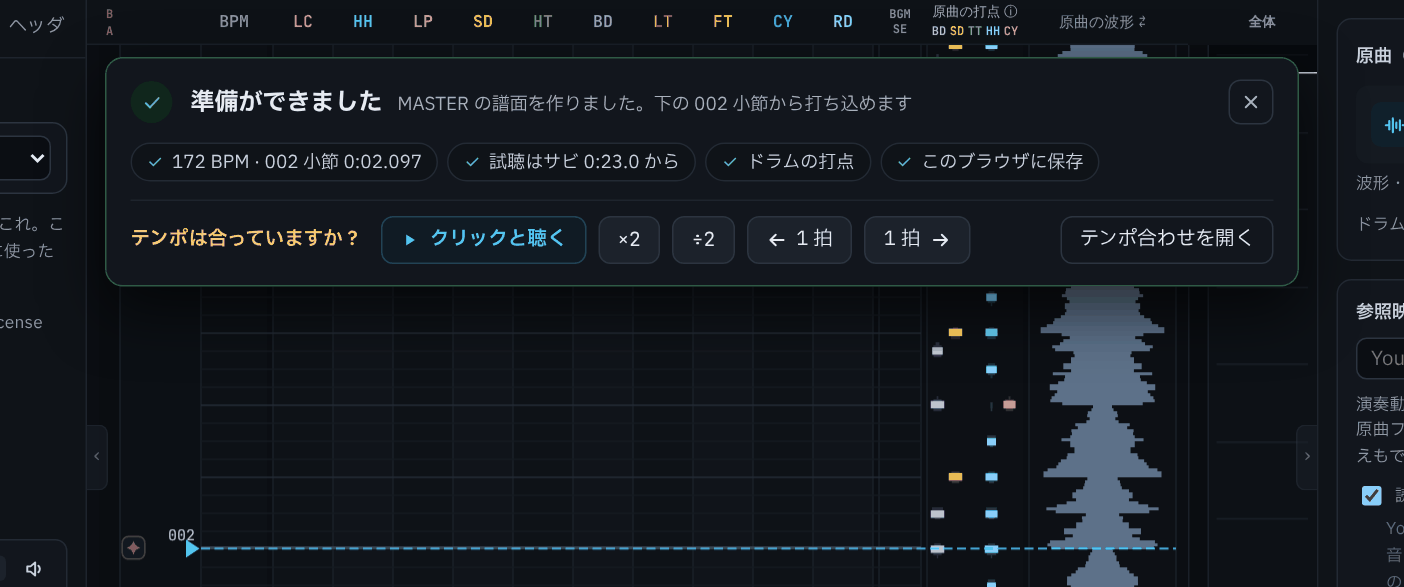
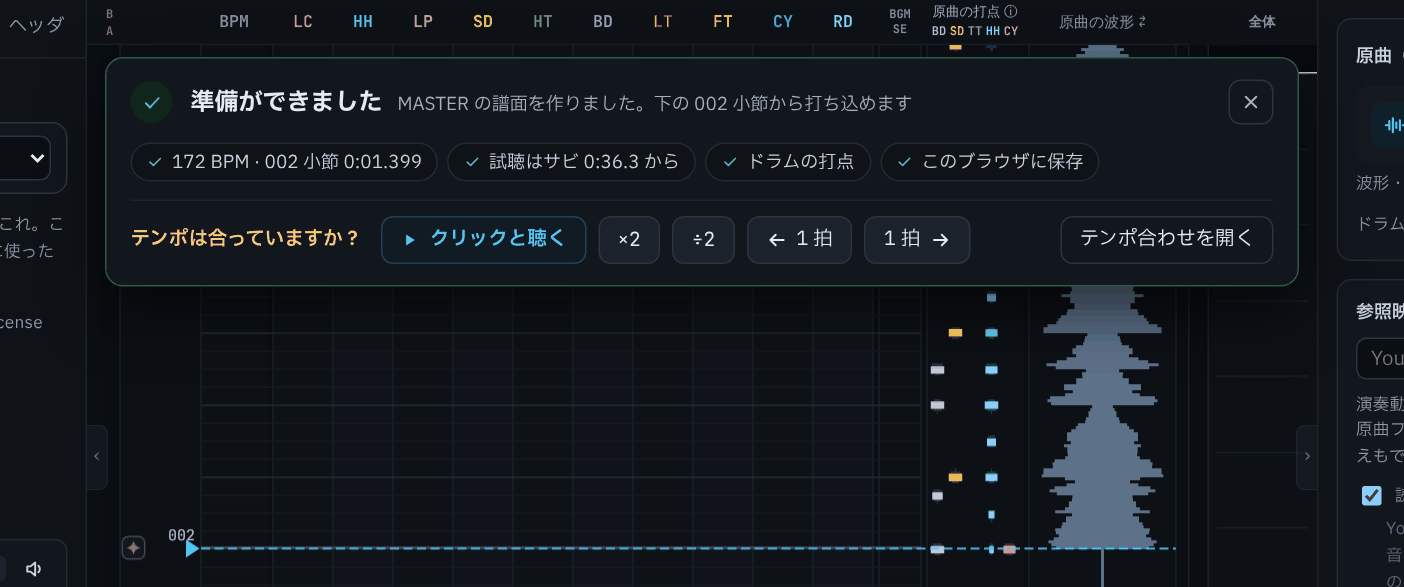
v0.54.1: テンポ推定の 1 小節目の頭が 2 拍ずれるのを直す（和音とベースを 1 小節ずつ比べる・おまかせで準備が和音の確かめを待つ）
- README のデモ曲 Neon Skyline で、おまかせで準備の 1 小節目の頭が 2 拍あと（2.097 秒）になっていた。正しくは 1.395 秒（直して 1.399 秒）
- 原因 1（src/audio/grid.ts）: 1 拍目と 3 拍目はドラムの形ではほぼ同点（7 曲とも差は 3% 以下）で、和音の変わり目で決めていた。和音を前後 2 拍ずつ比べていたので、小節の途中で変わるメロディーに引っぱられ、デモ曲では 3 拍目のほうが変わって見えた（テスト曲も 2 曲は僅差で当たっていた）
- 直し方: 前の 1 小節と後の 1 小節を比べる（本当の 1 拍目なら前後の窓がちょうど 1 小節ずつになり、違いがいちばん大きい）。低い音（40〜200Hz）のクロマ（ベース）の違いも足す（features.ts にベースのクロマ）。1 拍目と次点の差は、テスト曲 6 曲で 0.01〜2.1（デモ曲は外れ）→ デモ曲を入れた 7 曲で 1.7〜2.1。ドラムとドラム抜きに分けた音で測っても同じ
- 原因 2（src/store/tempoUi.ts）: おまかせで準備は和音の確かめを待ってから反映するつもりが、テンポ合わせを始めたときに測り始めた分と重なって null がすぐ返り、ドラムの形だけの案を反映していた。測っている最中にもう一度呼ばれたら、同じ答えを待つ
- テストを足した（メロディーが小節の途中で変わる合成の曲・ベースのクロマ・和音の確かめを待つ）。説明書の書き方を直した
- README の写真（setup-ready.png）を撮り直した

Claude-Session: https://claude.ai/code/session_0141xt8741xgwdn8D5bEfk2K

diff --git a/src/audio/grid.test.ts b/src/audio/grid.test.ts
@@ -1,6 +1,6 @@
 import { describe, expect, it } from 'vitest';
 import { analyzeAudio } from './analysis';
-import { computeFrameFeatures } from './features';
+import { computeFrameFeatures, type FrameFeatures } from './features';
 import { chordChange, firstDownbeat, guessBars, pickDownbeat } from './grid';
 import { eightBeat, synth, type SynthHit } from './testSignal';
 
@@ -43,6 +43,39 @@ function addChords(x: Float32Array, sr: number, bpm: number, bars: number, lead:
         const env = Math.min(1, i / 200, (n - i) / 200);
         x[a + i] += 0.08 * env * Math.sin((2 * Math.PI * f * i) / sr);
       }
+    }
+  }
+}
+
+/** 1 小節ごとに変わるベース（C・F・G・A。和音の根音） */
+function addBass(x: Float32Array, sr: number, bpm: number, bars: number, lead: number) {
+  const bar = 240 / bpm;
+  const roots = [65.41, 87.31, 98.0, 110.0];
+  for (let b = 0; b < bars; b++) {
+    const a = Math.round((lead + b * bar) * sr);
+    const n = Math.round(bar * sr);
+    const f = roots[b % 4];
+    for (let i = 0; i < n && a + i < x.length; i++) {
+      const env = Math.min(1, i / 200, (n - i) / 200);
+      x[a + i] += 0.2 * env * (Math.sin((2 * Math.PI * f * i) / sr) + 0.5 * Math.sin((4 * Math.PI * f * i) / sr));
+    }
+  }
+}
+
+/**
+ * 大きなメロディー。音は小節の途中（3 拍目）でだけ変わり、小節の頭ではそのまま続く
+ * （前の 2 拍と後の 2 拍を比べると、3 拍目のほうが変わって見える）
+ */
+function addMelody(x: Float32Array, sr: number, bpm: number, bars: number, lead: number) {
+  const half = 120 / bpm;
+  const notes = [659.25, 783.99, 880.0, 587.33, 523.25, 698.46, 987.77];
+  for (let h = 0; h < bars * 2; h++) {
+    const a = Math.round((lead + h * half) * sr);
+    const n = Math.round(half * sr);
+    const f = notes[Math.floor((h + 1) / 2) % notes.length];
+    for (let i = 0; i < n && a + i < x.length; i++) {
+      const env = Math.min(1, i / 200, (n - i) / 200);
+      x[a + i] += 0.25 * env * Math.sin((2 * Math.PI * f * i) / sr);
     }
   }
 }
@@ -100,6 +133,23 @@ describe('拍の位置と 1 小節目の頭', () => {
     const k = pickDownbeat(g.fit, chords);
     expect(offBy(firstDownbeat(g, data.start, k), lead, 2)).toBeLessThan(0.015);
   });
+
+  it('メロディーが小節の途中で変わっても、和音とベースが変わる小節の頭を 1 拍目にする', () => {
+    // README のデモ曲では、和音を 2 拍ずつ比べるとメロディーに引っぱられて 3 拍目を 1 拍目にしていた
+    const bpm = 120;
+    const lead = 0.5;
+    const bars = 14;
+    const x = synth(rock(bpm, bars, lead, true), SR, 30);
+    addChords(x, SR, bpm, bars, lead);
+    addBass(x, SR, bpm, bars, lead);
+    addMelody(x, SR, bpm, bars, lead);
+    const data = analyzeAudio([x], SR);
+    const g = data.bars[0];
+    expect(g.bpm).toBeCloseTo(bpm, 0);
+    const chords = chordChange(computeFrameFeatures([x], SR), g.bpm, g.beat, data.start, data.duration);
+    const k = pickDownbeat(g.fit, chords);
+    expect(offBy(firstDownbeat(g, data.start, k), lead, 2)).toBeLessThan(0.015);
+  });
 });
 
 describe('1 拍目の選び方', () => {
@@ -127,5 +177,50 @@ describe('1 拍目の選び方', () => {
     }
     const chg = chordChange({ rate, frames, offset: 0, chroma }, 120, 0.2, 0, 30);
     expect(chg.indexOf(Math.max(...chg))).toBe(1);
+  });
+
+  it('ベースの音（低い音のクロマ）も足す。ベースだけが小節の頭で変わっても見つける', () => {
+    const rate = 10;
+    const frames = 300;
+    // 和音（上のクロマ）は 2 拍ごとに 2 つを行き来する（小節の頭では見分けられない）
+    const chroma = new Float32Array(frames * 12);
+    const bass = new Float32Array(frames * 12);
+    for (let f = 0; f < frames; f++) {
+      const t = f / rate;
+      const half = Math.floor((t - 0.7) / 1);
+      chroma[f * 12 + (((half % 2) + 2) % 2) * 7] = 1;
+      const bar = Math.floor((t - 0.7) / 2);
+      bass[f * 12 + (((bar % 3) + 3) % 3) * 5] = 1;
+    }
+    const without = chordChange({ rate, frames, offset: 0, chroma }, 120, 0.2, 0, 30);
+    expect(Math.max(...without) - Math.min(...without)).toBeLessThan(0.01);
+    const chg = chordChange({ rate, frames, offset: 0, chroma, bass }, 120, 0.2, 0, 30);
+    expect(chg.indexOf(Math.max(...chg))).toBe(1);
+  });
+});
+
+describe('ベースのクロマ', () => {
+  it('低い音（40〜200Hz）だけを音名に分ける', () => {
+    const sr = 22050;
+    const tone = (hz: number[]) => {
+      const x = new Float32Array(sr * 3);
+      for (let i = 0; i < x.length; i++) for (const f of hz) x[i] += 0.3 * Math.sin((2 * Math.PI * f * i) / sr);
+      return computeFrameFeatures([x], sr);
+    };
+    const sum = (f: FrameFeatures, a: Float32Array) => {
+      const s = new Array(12).fill(0);
+      for (let k = 0; k < f.frames; k++) for (let c = 0; c < 12; c++) s[c] += a[k * 12 + c];
+      return s;
+    };
+    // G2（98Hz）のベースだけと、A5（880Hz）のメロディーを足したもの
+    const bass = tone([98]);
+    const both = tone([98, 880]);
+    const b = sum(bass, bass.bass);
+    expect(b.indexOf(Math.max(...b))).toBe(7);
+    // メロディーは低い音のクロマに入らない（ふつうのクロマには入る）
+    const b2 = sum(both, both.bass);
+    for (let c = 0; c < 12; c++) expect(Math.abs(b2[c] - b[c])).toBeLessThan(b[7] * 0.01);
+    const c2 = sum(both, both.chroma);
+    expect(c2.indexOf(Math.max(...c2))).toBe(9);
   });
 });

diff --git a/src/audio/grid.ts b/src/audio/grid.ts
@@ -1,8 +1,10 @@
 // 曲全体の拍と小節の頭を推定する：BPM の倍・半分のどれか、拍の位置、どの拍が 1 拍目か。
 // 打点の強さ（低・中・高の帯域）を曲全体で小節の長さにたたみ、よくあるドラムの形
 // （キックが 1・3 拍目、スネアが 2・4 拍目、1 拍目にシンバル）にいちばん合う所を探す。
-// 形だけだと 1 拍目と 3 拍目の違いが小さいので、和音（クロマ）があれば和音の変わり目も手がかりにする。
-// テスト曲 6 曲で BPM・1 小節目の頭とも 6 曲が作者の譜面と合った（前の推定は BPM 5 曲・頭 3/5 曲）。
+// 形だけだと 1 拍目と 3 拍目はほとんど差が出ないので、和音（クロマ）とベースの音があれば、
+// それが変わる所（前の 1 小節と後の 1 小節がいちばん違う拍）も手がかりにする。
+// テスト曲 6 曲と README のデモ曲で BPM・1 小節目の頭とも作者の譜面と合う（前の推定は BPM 5 曲・頭 3/5 曲。
+// 和音を 2 拍ずつ比べていた v0.53.0 はデモ曲で頭を 3 拍目にし、テスト曲 2 曲も僅差だった）。
 import type { Band } from './analysis';
 import type { FrameFeatures } from './features';
 
@@ -171,34 +173,53 @@ export function firstDownbeat(g: Pick<BarGuess, 'bpm' | 'beat' | 'k'>, from: num
   return t;
 }
 
+/** 和音の変わり目を比べる長さ（拍）。和音もベースの音も小節の頭で変わりやすいので、1 小節ずつ比べる */
+export const CHORD_SPAN = 4;
+
 /**
- * 和音の変わり目：拍の位置から k 拍目（k = 0〜3。4 拍ごと）の拍で、前の 2 拍と後の 2 拍の和音（クロマ）が
- * どれだけ違うかを、from〜to 秒の間で足したもの。和音は小節の頭で変わりやすい。
- * ドラムだけの音では意味が無いので、和音の入った音（原曲・ドラム抜き）で測る
+ * 和音の変わり目：拍の位置から k 拍目（k = 0〜3。4 拍ごと）の拍で、前の 1 小節と後の 1 小節の和音（クロマ）と
+ * ベースの音（低い音のクロマ）がどれだけ違うかを、from〜to 秒の間で足したもの。
+ * 本当の 1 拍目なら前後の窓がちょうど 1 小節ずつになり、違いがいちばん大きい（3 拍目だと窓が小節をまたいで、
+ * 前後に同じ和音が混ざる）。2 拍ずつ比べると、小節の途中で変わるメロディーに引っぱられた。
+ * ドラムだけの音では意味が無いので、和音の入った音（原曲・ドラム抜き）で測る。
+ * ベースのクロマが無ければ（古い形の特徴）和音だけで測る
  */
-export function chordChange(f: Pick<FrameFeatures, 'rate' | 'frames' | 'offset' | 'chroma'>, bpm: number, beat: number, from: number, to: number): number[] {
+export function chordChange(
+  f: Pick<FrameFeatures, 'rate' | 'frames' | 'offset' | 'chroma'> & Partial<Pick<FrameFeatures, 'bass'>>,
+  bpm: number,
+  beat: number,
+  from: number,
+  to: number,
+): number[] {
   const out = [0, 0, 0, 0];
   if (!(bpm > 0) || f.frames === 0) return out;
   const len = 60 / bpm;
+  const W = CHORD_SPAN;
   const v = new Float64Array(12);
   const w = new Float64Array(12);
-  const chromaOf = (t0: number, t1: number, dst: Float64Array) => {
+  /** t0〜t1 秒の 12 音の和を長さ 1 にそろえる */
+  const sumOf = (src: Float32Array, t0: number, t1: number, dst: Float64Array) => {
     dst.fill(0);
     const a = Math.max(0, Math.ceil(t0 * f.rate - f.offset));
     const b = Math.min(f.frames - 1, Math.ceil(t1 * f.rate - f.offset) - 1);
-    for (let k = a; k <= b; k++) for (let c = 0; c < 12; c++) dst[c] += f.chroma[k * 12 + c];
+    for (let k = a; k <= b; k++) for (let c = 0; c < 12; c++) dst[c] += src[k * 12 + c];
     let s = 0;
     for (let c = 0; c < 12; c++) s += dst[c] * dst[c];
     s = Math.sqrt(s) + 1e-9;
     for (let c = 0; c < 12; c++) dst[c] /= s;
   };
-  for (let i = Math.ceil((Math.max(0, from) - beat) / len) + 2; beat + (i + 2) * len <= to; i++) {
-    const t = beat + i * len;
-    chromaOf(t - 2 * len, t, v);
-    chromaOf(t, t + 2 * len, w);
+  /** t 秒の前と後の W 拍の違い（1 − 似ている度合い） */
+  const change = (src: Float32Array, t: number) => {
+    sumOf(src, t - W * len, t, v);
+    sumOf(src, t, t + W * len, w);
     let d = 0;
     for (let c = 0; c < 12; c++) d += v[c] * w[c];
-    out[((i % 4) + 4) % 4] += 1 - d;
+    return 1 - d;
+  };
+  for (let i = Math.ceil((Math.max(0, from) - beat) / len) + W; beat + (i + W) * len <= to; i++) {
+    const t = beat + i * len;
+    // ベースの無い曲では低い音はキックぐらいで、小節ごとにほとんど変わらず和音の違いの邪魔をしない（それぞれをそろえずに足す）
+    out[((i % 4) + 4) % 4] += change(f.chroma, t) + (f.bass ? change(f.bass, t) : 0);
   }
   return out;
 }

diff --git a/src/store/tempoChords.test.ts b/src/store/tempoChords.test.ts
@@ -1,0 +1,80 @@
+// 新しい譜面のテンポの案：1 拍目を和音の変わり目でも確かめる（refineWithChords）。
+// 測っている最中にもう一度呼ばれたら、同じ答えを待つ（おまかせで準備は、確かめてから案を反映する）。
+import { describe, expect, it, vi } from 'vitest';
+import type { AnalysisData } from '../audio/analysis';
+import { CH, emptyDoc, type DtxDoc } from '../dtx/model';
+
+// トーストが消える時計（テストでは使わない）
+vi.stubGlobal('window', { setTimeout: () => 0 });
+
+// 和音の変わり目はワーカーで曲の音から測る。テストが答えを返すまで待たせる
+const wk = vi.hoisted(() => ({ calls: 0, answer: null as null | ((v: number[]) => void) }));
+vi.mock('../audio/workerClient', async (orig) => ({
+  ...(await orig<typeof import('../audio/workerClient')>()),
+  chordChange: () => {
+    wk.calls++;
+    return new Promise<number[]>((r) => (wk.answer = r));
+  },
+}));
+vi.mock('./chorus', async (orig) => ({
+  ...(await orig<typeof import('./chorus')>()),
+  songAudioKey: async () => ({ key: 'song', offset: 0 }),
+}));
+
+const { useEditor } = await import('./editor');
+const { useAssist } = await import('./assist');
+const { useSidecar } = await import('./sidecar');
+const { applyTempo, initTempo, refineWithChords, useTempo } = await import('./tempoUi');
+
+/** BPM 120、拍は 0.25 秒から。ドラムの形だけだと 3 拍目（1.25 秒）を 1 拍目にする */
+function analysis(): AnalysisData {
+  const z = () => new Float32Array(3000);
+  return {
+    duration: 30,
+    peakRate: 100,
+    peaks: new Float32Array(3000),
+    frameRate: 100,
+    odf: { low: z(), mid: z(), high: z() },
+    env: { low: z(), mid: z(), high: z() },
+    tempo: [{ bpm: 120, score: 1, kind: 'best', phase: 0.25 }],
+    bars: [{ bpm: 120, beat: 0.25, fit: [10, 2, 10.5, 2], k: 2, score: 10 }],
+    start: 0.2,
+  };
+}
+
+/** 原曲（BGM）だけの新しい譜面 */
+function newSong(): DtxDoc {
+  return { ...emptyDoc(), fields: { TITLE: 'テスト', BPM: '120', WAV01: 'song.ogg' }, chips: [{ id: 1, ch: CH.BGM, m: 0, f: { n: 0, d: 1 }, v: 1 }], nextId: 2 };
+}
+
+describe('1 拍目を和音の変わり目で確かめる', () => {
+  it('測っている最中にもう一度呼ぶと同じ答えを待ち、確かめた案を反映できる', async () => {
+    useSidecar.setState({ anchors: [] });
+    useTempo.setState({ initialized: false });
+    useAssist.setState({ data: analysis(), status: 'ready' });
+    useEditor.setState({
+      doc: newSong(),
+      page: 'tempo',
+      past: [],
+      future: [],
+      meta: { fileName: 'song.dtx', encoding: 'shift_jis', warnings: [], hasRandom: false, siblings: [] },
+    });
+    // 画面を開くと推定の案（ドラムの形だけ）を作り、和音の変わり目を測り始める
+    initTempo();
+    expect(useTempo.getState().fromEstimate).toBe(true);
+    expect(useTempo.getState().plan.anchors[0].t).toBeCloseTo(1.25, 6);
+    // おまかせで準備は、ここでもう一度呼んで待つ（前は null がすぐ返り、形だけの案を反映していた）
+    const again = refineWithChords();
+    await vi.waitFor(() => expect(wk.answer).not.toBeNull());
+    wk.answer!([5, 1, 1, 1]);
+    expect(await again).toEqual([5, 1, 1, 1]);
+    expect(wk.calls).toBe(1);
+    // 和音は拍の位置から 0 拍目で変わる：1 小節目の頭は 0.25 秒
+    expect(useTempo.getState().plan.anchors[0].t).toBeCloseTo(0.25, 6);
+    expect(applyTempo({ quiet: true })).toBe(true);
+    expect(useSidecar.getState().anchors[0].t).toBeCloseTo(0.25, 6);
+    // わかった答えは測り直さない
+    expect(await refineWithChords()).toEqual([5, 1, 1, 1]);
+    expect(wk.calls).toBe(1);
+  });
+});

diff --git a/src/audio/features.ts b/src/audio/features.ts
@@ -22,6 +22,8 @@ export interface FrameFeatures {
   offset: number;
   /** frames × 12（C, C#, …, B の強さ） */
   chroma: Float32Array;
+  /** frames × 12。低い音（40〜200Hz：ベースと低い和音）だけのクロマ。ベースの音は小節の頭で変わりやすい（1 拍目の手がかり） */
+  bass: Float32Array;
   /** frames × FEAT_BANDS（帯域の音量、dB） */
   bands: Float32Array;
   /** 打点のフレーム（1秒あたり）。フレーム f の中心は (f + fluxOffset) / fluxRate 秒 */
@@ -36,17 +38,19 @@ export function computeFrameFeatures(channels: Float32Array[], sr: number, progr
   const x = resample(downmix(channels), sr, FEAT_SR);
   const frames = Math.max(0, Math.floor((x.length - N) / HOP) + 1);
   const chroma = new Float32Array(frames * 12);
+  const bass = new Float32Array(frames * 12);
   const bands = new Float32Array(frames * FEAT_BANDS);
   const win = new Float32Array(N);
   for (let i = 0; i < N; i++) win[i] = 0.5 - 0.5 * Math.cos((2 * Math.PI * i) / (N - 1));
   const binHz = FEAT_SR / N;
-  // クロマ：65Hz（C2）〜2.1kHz の成分を音名に振り分ける
+  // クロマ：65Hz（C2）〜2.1kHz の成分を音名に振り分ける。ベースのクロマは 40〜200Hz
   const pc = new Int8Array(N / 2).fill(-1);
+  const pcBass = new Int8Array(N / 2).fill(-1);
   for (let k = 1; k < N / 2; k++) {
     const f = k * binHz;
-    if (f < 65 || f > 2100) continue;
-    const midi = 69 + 12 * Math.log2(f / 440);
-    pc[k] = ((Math.round(midi) % 12) + 12) % 12;
+    const name = ((Math.round(69 + 12 * Math.log2(f / 440)) % 12) + 12) % 12;
+    if (f >= 65 && f <= 2100) pc[k] = name;
+    if (f >= 40 && f <= 200) pcBass[k] = name;
   }
   // 音色：60Hz〜5kHz を対数で区切る
   const edges: number[] = [];
@@ -63,8 +67,11 @@ export function computeFrameFeatures(channels: Float32Array[], sr: number, progr
     const co = f * 12;
     for (let k = 1; k < N / 2; k++) {
       const p = pc[k];
-      if (p < 0) continue;
-      chroma[co + p] += Math.sqrt(re[k] * re[k] + im[k] * im[k]);
+      const q = pcBass[k];
+      if (p < 0 && q < 0) continue;
+      const mag = Math.sqrt(re[k] * re[k] + im[k] * im[k]);
+      if (p >= 0) chroma[co + p] += mag;
+      if (q >= 0) bass[co + q] += mag;
     }
     const bo = f * FEAT_BANDS;
     for (let b = 0; b < FEAT_BANDS; b++) {
@@ -77,7 +84,7 @@ export function computeFrameFeatures(channels: Float32Array[], sr: number, progr
     if (progress && f % 500 === 0) progress((0.5 * f) / Math.max(1, frames));
   }
   const fl = computeFlux(channels, sr, (p) => progress?.(0.5 + 0.5 * p));
-  return { rate: FEAT_SR / HOP, frames, offset: N / 2 / HOP, chroma, bands, ...fl };
+  return { rate: FEAT_SR / HOP, frames, offset: N / 2 / HOP, chroma, bass, bands, ...fl };
 }
 
 /** 帯域ごとの音の立ち上がり（対数の音量の増え方）。22.05kHz、1024点、256 ずつ */

diff --git a/src/store/tempoUi.ts b/src/store/tempoUi.ts
@@ -160,7 +160,8 @@ function estimatePlan(): TempoPlan | null {
 
 /** 和音の変わり目（1 拍目の手がかり）。解析の結果・BPM・拍の位置ごと */
 let chordHint: { data: AnalysisData; bpm: number; beat: number; chords: number[] } | null = null;
-let chordAsking: AnalysisData | null = null;
+/** 測っている最中の和音の変わり目（同じ解析の結果をもう一度聞かれたら、同じ答えを待たせる） */
+let chordAsking: { data: AnalysisData; answer: Promise<number[] | null> } | null = null;
 
 /**
  * BPM の拍の位置と 1 拍目（src/audio/grid.ts）。解析で出した候補ならそれを、ほかの BPM は測り直す。
@@ -176,15 +177,25 @@ function barsFor(data: AnalysisData, bpm: number): BarGuess | null {
 
 /**
  * いちばん合う BPM の 1 拍目を、和音の変わり目でも確かめる（曲の音の特徴はサビ探しと使い回す）。
- * わかったとき、推定の案のまま触っていなければ案を作り直す。答えを返す（測れなければ null。ドラムの形だけで決める）
+ * わかったとき、推定の案のまま触っていなければ案を作り直す。答えを返す（測れなければ null。ドラムの形だけで決める）。
+ * 測っている最中にもう一度呼ばれたら、同じ答えを待つ（おまかせで準備は、テンポ合わせを始めたときに測り始めた分を
+ * 待ってから反映する。前は待たずに null が返り、ドラムの形だけの案を反映していた）
  */
-export async function refineWithChords(): Promise<number[] | null> {
+export function refineWithChords(): Promise<number[] | null> {
   const data = useAssist.getState().data;
   const g = data?.bars[0];
-  if (!data || !g) return null;
-  if (chordHint?.data === data && chordHint.bpm === g.bpm) return chordHint.chords;
-  if (chordAsking === data) return null;
-  chordAsking = data;
+  if (!data || !g) return Promise.resolve(null);
+  if (chordHint?.data === data && chordHint.bpm === g.bpm) return Promise.resolve(chordHint.chords);
+  if (chordAsking?.data === data) return chordAsking.answer;
+  const answer = askChords(data, g);
+  chordAsking = { data, answer };
+  void answer.finally(() => {
+    if (chordAsking?.answer === answer) chordAsking = null;
+  });
+  return answer;
+}
+
+async function askChords(data: AnalysisData, g: BarGuess): Promise<number[] | null> {
   try {
     const bgm = bgmSource(useEditor.getState().doc);
     const song = await songAudioKey();
@@ -206,8 +217,6 @@ export async function refineWithChords(): Promise<number[] | null> {
     return chords;
   } catch {
     return null;
-  } finally {
-    if (chordAsking === data) chordAsking = null;
   }
 }
 

diff --git a/docs/manual.md b/docs/manual.md
@@ -236,7 +236,7 @@ PC の Chrome・Edge で、DTXMania のゲームのフォルダ（.exe のある
   - ドラム抜きの BGM（採譜でバスドラム・スネアがほとんど聞こえない）では、採譜の案と原曲との照合は出さず、写す案と AI の案は前後の流れから作ります。
 - **テンポ合わせ**（上のバーの「BPM・拍子」、または ツール › テンポと開始位置を合わせる）
   - 原曲のBPMを推定し、倍・半分の候補とタップでの計測も出します。
-  - 新しい譜面（ドラムがまだ無い）では、推定から 1 小節目の頭まで決めた案を作ります。倍・半分と 1 拍目は、曲全体の打点をよくあるドラムの形（キックが 1・3 拍目、スネアが 2・4 拍目、1 拍目にシンバル）に重ねて、いちばん合うものを選びます。1 拍目と 3 拍目は形だけでは差が小さいので、和音が変わる拍（小節の頭で変わりやすい）でも確かめます（曲の音から測るので、案が少し遅れて動くことがあります）。テスト曲 6 曲では BPM・1 小節目の頭とも作者の譜面と合いました（ずれは 13ms 以内。前の版は BPM 5 曲・頭 3 曲）。
+  - 新しい譜面（ドラムがまだ無い）では、推定から 1 小節目の頭まで決めた案を作ります。倍・半分と 1 拍目は、曲全体の打点をよくあるドラムの形（キックが 1・3 拍目、スネアが 2・4 拍目、1 拍目にシンバル）に重ねて、いちばん合うものを選びます。1 拍目と 3 拍目は形だけではほとんど差が出ないので、和音とベースの音が変わる拍でも確かめます（和音もベースも小節の頭で変わりやすいので、前の 1 小節と後の 1 小節がいちばん違う拍を 1 拍目にします。曲の音から測るので、案が少し遅れて動くことがあります）。テスト曲 6 曲と README のデモ曲では BPM・1 小節目の頭とも作者の譜面と合いました（ずれは 13ms 以内。前の版は BPM 5 曲・頭 3 曲）。
   - 1小節目の頭を波形の上で決めると、BGMチップ（ch01）の位置を DTXMania の分解能（1小節 = 384）で計算します。
   - 小節線をドラッグしてアンカーを置くと、アンカーの間のBPMを計算して小節の頭でBPMを変えます。
   - 確認再生（クリック付き）で合っているか聴けます。「譜面に反映」は Ctrl+Z で戻せます。
